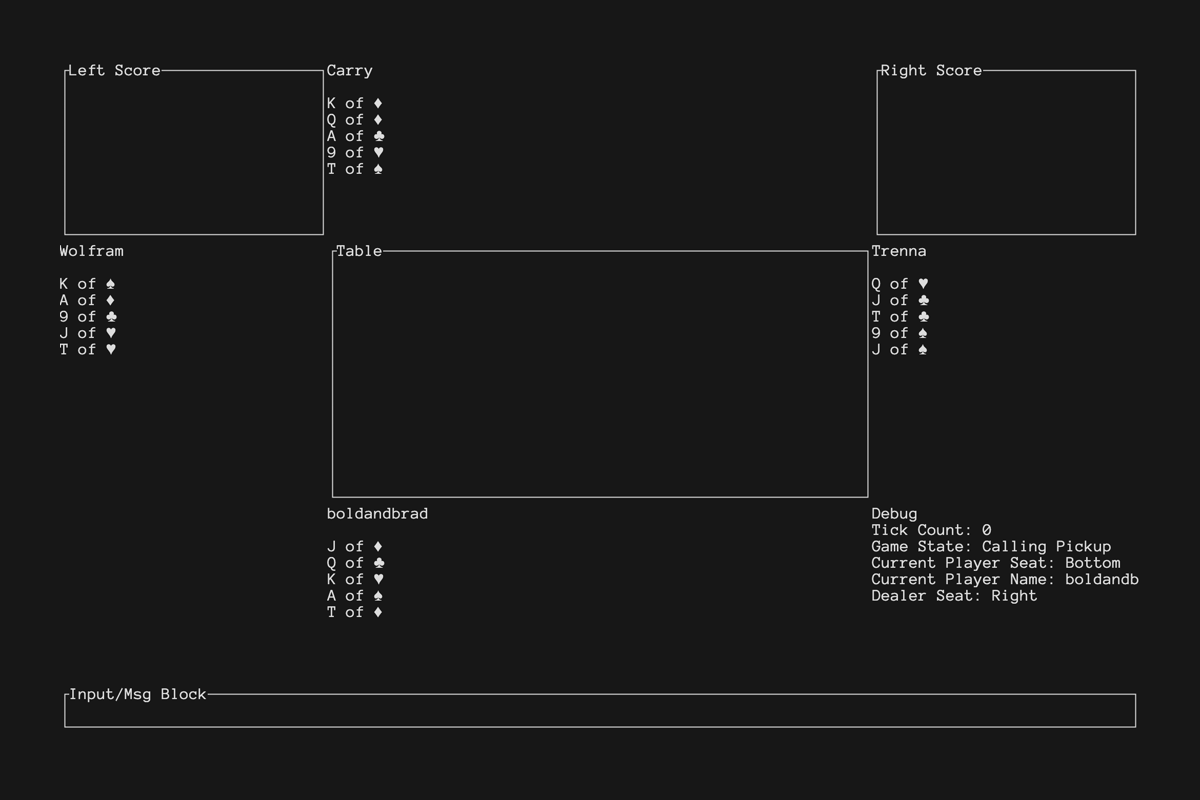
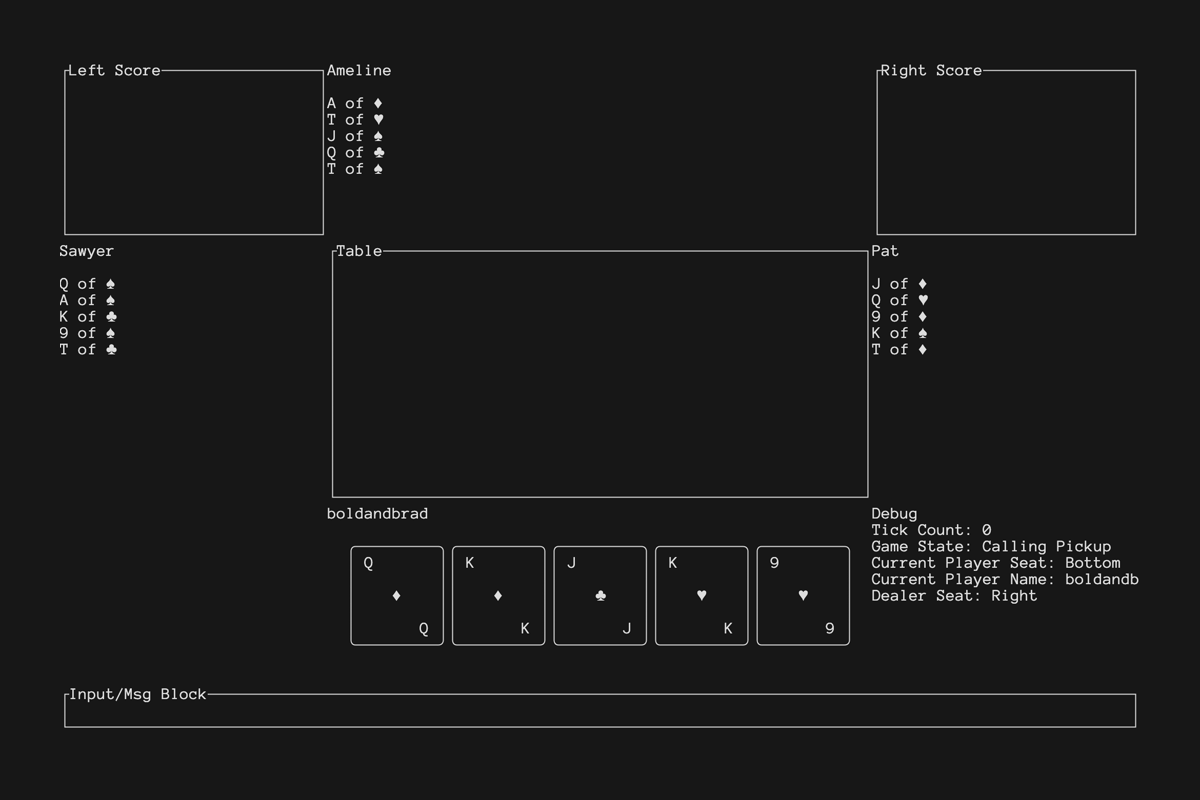
first pass at rendering actual cards

diff --git a/src/interface/screens/game_screen.rs b/src/interface/screens/game_screen.rs
@@ -1,12 +1,16 @@
-use crate::engine::{
-    game::{Game, GameState},
-    player::Player,
-    table::Seat,
-};
 use crate::interface::{
     components::{layouts::GameLayout, popups::centered_popup_area},
     interface_callback::InterfaceCallback,
     screens::Screen,
+};
+use crate::{
+    engine::{
+        card::Card,
+        game::{Game, GameState},
+        player::Player,
+        table::{Seat, SEAT_VARIANTS},
+    },
+    interface::components::cards::bottom_player_cards,
 };
 use crossterm::event::{KeyCode, KeyEvent, KeyEventKind};
 use ratatui::{
@@ -45,45 +49,43 @@ impl Screen for GameScreen {
         // TODO: make reusable components for score boards and player areas
         // TODO: implement score boards
 
-        // left score board
+        // render score boards
         frame.render_widget(
             Block::new().borders(Borders::ALL).title("Left Score"),
             game_layout.left_score_area,
         );
-
-        // top player area
-        let partner: &Player = self.game.get_player_in_seat(Seat::Top);
-        frame.render_widget(build_card_lines(partner), game_layout.top_player_area);
-
-        // right score board
         frame.render_widget(
             Block::new().borders(Borders::ALL).title("Right Score"),
             game_layout.right_score_area,
         );
 
-        // left player area
-        let left_player: &Player = self.game.get_player_in_seat(Seat::Left);
-        frame.render_widget(build_card_lines(left_player), game_layout.left_player_area);
+        // render player areas
+        for seat in SEAT_VARIANTS {
+            let player: &Player = self.game.get_player_in_seat(seat.clone());
+            let player_area = game_layout.get_player_area_by_seat(seat.clone());
+            frame.render_widget(Paragraph::new(player.name.as_str()), player_area.name_area);
+            // TODO: once all the card rendering logic is sorted out, this will be fully dynamic
+            match seat {
+                Seat::Bottom => {
+                    frame.render_widget(
+                        bottom_player_cards(player.hand.clone()),
+                        game_layout.bottom_player_area.hand_area,
+                    );
+                }
+                _ => {
+                    frame.render_widget(build_card_lines(&player.hand), player_area.hand_area);
+                }
+            }
+        }
 
-        // table area
+        // render table area
         frame.render_widget(
             Block::new().borders(Borders::ALL).title("Table"),
             game_layout.table_area,
         );
 
-        // right player area
-        let right_player: &Player = self.game.get_player_in_seat(Seat::Right);
-        frame.render_widget(
-            build_card_lines(right_player),
-            game_layout.right_player_area,
-        );
-
-        // bottom player panel (user)
-        let user: &Player = self.game.get_player_in_seat(Seat::Bottom);
-        frame.render_widget(build_card_lines(user), game_layout.bottom_player_area);
-
         // TODO: eventually remove debug area or hide behind cli flag
-        // debug area
+        // render debug area
         let debug_block = Block::default().title("Debug");
         let debug_area = debug_block.inner(game_layout.debug_area);
         frame.render_widget(debug_block, game_layout.debug_area);
@@ -186,9 +188,9 @@ impl Screen for GameScreen {
     }
 }
 
-fn build_card_lines(player: &Player) -> Text {
-    let mut lines = vec![Line::from(player.name.clone()), Line::from("")];
-    for card in player.hand.clone() {
+fn build_card_lines(hand: &Vec<Card>) -> Text {
+    let mut lines = vec![];
+    for card in hand.clone() {
         let line = Line::from(card.get_name());
         lines.push(line);
     }

diff --git a/src/interface/components/cards.rs b/src/interface/components/cards.rs
@@ -1,0 +1,64 @@
+use crate::engine::card::Card;
+use ratatui::{
+    text::{Line, Text},
+    widgets::Paragraph,
+};
+
+pub const VERTICAL_CARD_LEFT_EDGE: [&str; 7] = ["╭", "│", "│", "│", "│", "│", "╰"];
+pub const VERTICAL_CARD_RIGHT_EDGE: [&str; 7] = ["╮", "│", "│", "│", "│", "│", "╯"];
+
+// TODO: figure out how to make these dynamic based on the screen size
+pub const CARD_WIDTH: usize = 9;
+pub const CARD_HEIGHT: usize = 7;
+
+// pub fn horizontal_cards(cards: Vec<Card>, splayed: bool, show_values: bool) {}
+
+// pub fn vertical_cards(show_values: bool) {}
+
+pub fn card_area(card: Card) -> Vec<String> {
+    let card_area = vec![
+        "─".repeat(CARD_WIDTH),
+        format!(" {}{}", card.face.get_symbol(), " ".repeat(CARD_WIDTH - 2)),
+        " ".repeat(CARD_WIDTH),
+        format!(
+            "{}{}{}",
+            " ".repeat(CARD_WIDTH / 2),
+            card.suit.get_symbol(),
+            " ".repeat(CARD_WIDTH / 2),
+        ),
+        " ".repeat(CARD_WIDTH),
+        format!("{}{} ", " ".repeat(CARD_WIDTH - 2), card.face.get_symbol()),
+        "─".repeat(CARD_WIDTH),
+    ];
+    card_area
+}
+
+pub fn bottom_player_cards(cards: Vec<Card>) -> Paragraph<'static> {
+    let mut card_areas: Vec<Vec<String>> = vec![];
+    for card in cards {
+        card_areas.push(card_area(card));
+    }
+
+    let mut hand_area = vec!["".to_string(); CARD_HEIGHT];
+    for (_idx, card_area) in card_areas.iter().enumerate() {
+        for (idx, line) in card_area.iter().enumerate() {
+            hand_area[idx].push_str(VERTICAL_CARD_LEFT_EDGE[idx]);
+            hand_area[idx].push_str(&line);
+            hand_area[idx].push_str(VERTICAL_CARD_RIGHT_EDGE[idx]);
+        }
+    }
+
+    string_vec_to_paragraph(hand_area)
+}
+
+// pub fn top_player_cards(cards: Vec<Card>) -> Paragraph<'static> {
+//     string_vec_to_paragraph(cards.into_iter().map(card_area).flatten().collect())
+// }
+
+pub fn string_vec_to_paragraph(strings: Vec<String>) -> Paragraph<'static> {
+    let mut lines = Vec::new();
+    for line in strings {
+        lines.push(Line::from(line))
+    }
+    Paragraph::new(Text::from(lines)).alignment(ratatui::layout::Alignment::Center)
+}

diff --git a/src/interface/components/layouts.rs b/src/interface/components/layouts.rs
@@ -1,3 +1,4 @@
+use crate::engine::table::Seat;
 use ratatui::{
     layout::{Constraint, Direction, Layout, Rect},
     Frame,
@@ -45,13 +46,31 @@ impl MenuLayout {
     }
 }
 
+pub struct PlayerLayout {
+    pub name_area: Rect,
+    pub hand_area: Rect,
+}
+
+impl PlayerLayout {
+    pub fn new(rect: Rect) -> Self {
+        let layout_base = Layout::default()
+            .direction(Direction::Vertical)
+            .constraints([Constraint::Length(2), Constraint::Fill(1)])
+            .split(rect);
+        Self {
+            name_area: layout_base[0],
+            hand_area: layout_base[1],
+        }
+    }
+}
+
 pub struct GameLayout {
     pub left_score_area: Rect,
     pub right_score_area: Rect,
-    pub top_player_area: Rect,
-    pub left_player_area: Rect,
-    pub right_player_area: Rect,
-    pub bottom_player_area: Rect,
+    pub top_player_area: PlayerLayout,
+    pub left_player_area: PlayerLayout,
+    pub right_player_area: PlayerLayout,
+    pub bottom_player_area: PlayerLayout,
     pub table_area: Rect,
     pub msg_input_area: Rect,
     pub debug_area: Rect,
@@ -83,13 +102,22 @@ impl GameLayout {
         Self {
             left_score_area: layout_top[0],
             right_score_area: layout_top[2],
-            top_player_area: layout_top[1],
-            left_player_area: layout_mid[0],
-            right_player_area: layout_mid[2],
-            bottom_player_area: layout_bot[1],
+            top_player_area: PlayerLayout::new(layout_top[1]),
+            left_player_area: PlayerLayout::new(layout_mid[0]),
+            right_player_area: PlayerLayout::new(layout_mid[2]),
+            bottom_player_area: PlayerLayout::new(layout_bot[1]),
             table_area: layout_mid[1],
             msg_input_area: layout_base[3],
             debug_area: layout_bot[2],
+        }
+    }
+
+    pub fn get_player_area_by_seat(&self, seat: Seat) -> &PlayerLayout {
+        match seat {
+            Seat::Bottom => &self.bottom_player_area,
+            Seat::Left => &self.left_player_area,
+            Seat::Top => &self.top_player_area,
+            Seat::Right => &self.right_player_area,
         }
     }
 }

diff --git a/src/engine/table.rs b/src/engine/table.rs
@@ -4,6 +4,8 @@ use rand::{
 };
 use std::fmt::{Display, Formatter};
 
+pub static SEAT_VARIANTS: &[Seat] = &[Seat::Bottom, Seat::Left, Seat::Top, Seat::Right];
+
 #[derive(Default, Clone, PartialEq, Eq, Hash)]
 pub enum Seat {
     #[default]

diff --git a/src/engine/team.rs b/src/engine/team.rs
@@ -14,7 +14,8 @@ impl Team {
         Team {
             name,
             seats,
-            ..Default::default()
+            game_score: 0,
+            hand_score: 0,
         }
     }
 }

diff --git a/src/engine/player.rs b/src/engine/player.rs
@@ -21,7 +21,7 @@ impl Player {
         Player {
             name,
             player_type,
-            ..Default::default()
+            hand: vec![],
         }
     }
 

diff --git a/src/interface/components/mod.rs b/src/interface/components/mod.rs
@@ -1,4 +1,5 @@
 pub mod ascii_text;
+pub mod cards;
 pub mod inputs;
 pub mod layouts;
 pub mod popups;
